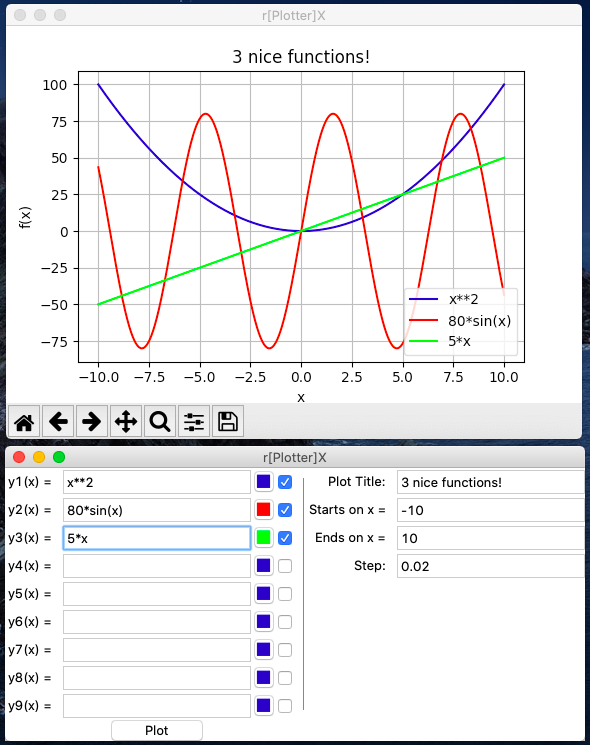
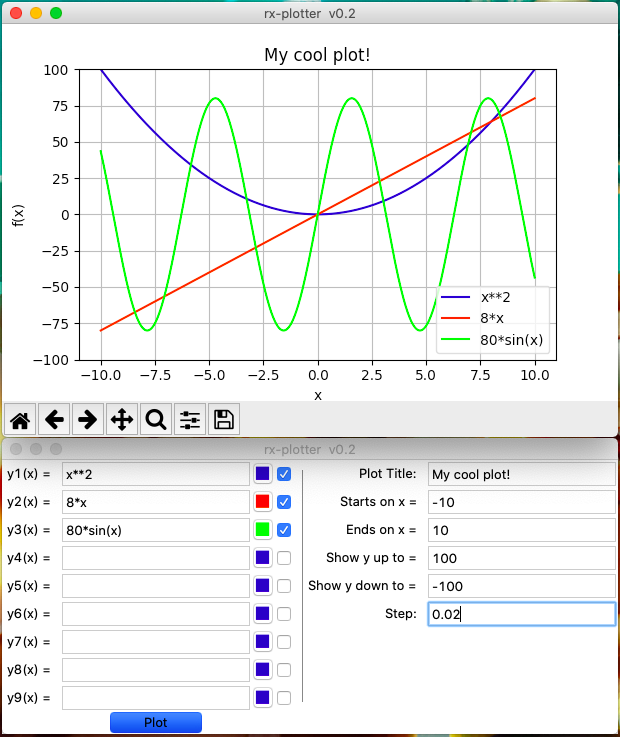
Version 0.2

Changed region(s): [[0.0, 0.0, 1.0, 1.0]]

diff --git a/rx-plotter.py b/rx-plotter.py
@@ -13,7 +13,7 @@ class Plotter():
     def __init__(self, root):
 
         self.root = root
-        self.root.title("r[Plotter]X")
+        self.root.title("rx-plotter  v0.2")
         self.root.wm_minsize(400, 200)
         self.root.grid_anchor(anchor = 'c')
 
@@ -31,7 +31,6 @@ class Plotter():
         for each_label in range(1, self.max_plot):
             self.labels_array[each_label] = Label(frame, text = str("y" + str(each_label) + "(x) = "))
             self.labels_array[each_label].grid(row = self.first_row + 1 + each_label, column = self.first_column, sticky = "e")
-
         for each_entry in range(1, self.max_plot):
             self.entry_array[each_entry] = Entry(frame)
             self.entry_array[each_entry].grid(row = self.first_row + 1 + each_entry, column = self.first_column + 1)
@@ -56,24 +55,37 @@ class Plotter():
         self.label_graph_title = Label(frame, text = "Plot Title: ")
         self.label_first_x = Label(frame, text = "Starts on x = ")
         self.label_last_x = Label(frame, text = "Ends on x = ")
+
+        self.label_upper_y = Label(frame, text = "Show y up to = ")
+        self.label_lower_y = Label(frame, text = "Show y down to = ")
         self.label_step = Label(frame, text = "Step: ")
+
+
+        
 
 
         self.entry_graph_title = Entry(frame)
         self.entry_first_x = Entry(frame)
         self.entry_last_x = Entry(frame)
+        self.entry_upper_y = Entry(frame)
+        self.entry_lower_y = Entry(frame)
         self.entry_step = Entry(frame)
 
 
         self.label_graph_title.grid(row = self.first_row + 2, column = self.first_column + 6, sticky = "e")
         self.label_first_x.grid(row = self.first_row + 3, column = self.first_column + 6, sticky = "e")
         self.label_last_x.grid(row = self.first_row + 4, column = self.first_column + 6, sticky = "e")
-        self.label_step.grid(row = self.first_row + 5, column = self.first_column + 6, sticky = "e")
+        self.label_upper_y.grid(row = self.first_row + 5, column = self.first_column + 6, sticky = "e")
+        self.label_lower_y.grid(row = self.first_row + 6, column = self.first_column + 6, sticky = "e")
+        self.label_step.grid(row = self.first_row + 7, column = self.first_column + 6, sticky = "e")
 
+        
         self.entry_graph_title.grid(row = self.first_row + 2, column = self.first_column + 7)
         self.entry_first_x.grid(row = self.first_row + 3, column = self.first_column + 7)
         self.entry_last_x.grid(row = self.first_row + 4, column = self.first_column + 7)
-        self.entry_step.grid(row = self.first_row + 5, column = self.first_column + 7)
+        self.entry_upper_y.grid(row = self.first_row + 5, column = self.first_column + 7)
+        self.entry_lower_y.grid(row = self.first_row + 6, column = self.first_column + 7)
+        self.entry_step.grid(row = self.first_row + 7, column = self.first_column + 7)
 
 
 
@@ -83,6 +95,9 @@ class Plotter():
         self.entry_first_x.insert(END, "-10")
         self.entry_last_x.insert(END, "10")
         self.entry_step.insert(END, "0.5")
+        self.entry_upper_y.insert(END, "100")
+        self.entry_lower_y.insert(END, "0")
+        
 
 
         frame.grid()
@@ -98,6 +113,8 @@ class Plotter():
 
         self.xmin = float(self.entry_first_x.get())
         self.xmax = float(self.entry_last_x.get())
+        self.ymin = float(self.entry_lower_y.get())
+        self.ymax = float(self.entry_upper_y.get())
         self.step = abs(float(self.entry_step.get()))
         self.checkreadings = [ self.checked[x].get() for x in range(self.max_plot)]
 
@@ -106,6 +123,8 @@ class Plotter():
             self.error("Last x should be greater then the first x!")
         elif (self.xmax - self.xmin) < self.step:
             self.error("Step should be smaller then range (last x - first x)!")
+        elif self.ymax <= self.ymin:
+            self.error("Upper y limit should be greater then lower y limit")
         elif not any(self.checkreadings):
             self.error("You should check at least one function to plot!")
         else:
@@ -125,13 +144,14 @@ class Plotter():
                         self.xzing = self.xzing + self.step
 
 
-            pylab.figure("r[Plotter]X")
+            pylab.figure("rx-plotter  v0.2")
 
             for i in range(1, self.max_plot):
                 if self.checkreadings[i] == 1:
                     pylab.plot(self.xx[i], self.yy[i], label = str(self.entry_array[i].get()), color = self.color_array[i]['fg'])
 
-
+            
+            pylab.ylim(self.ymin, self.ymax)
             pylab.xlabel("x")
             pylab.ylabel("f(x)")
 
